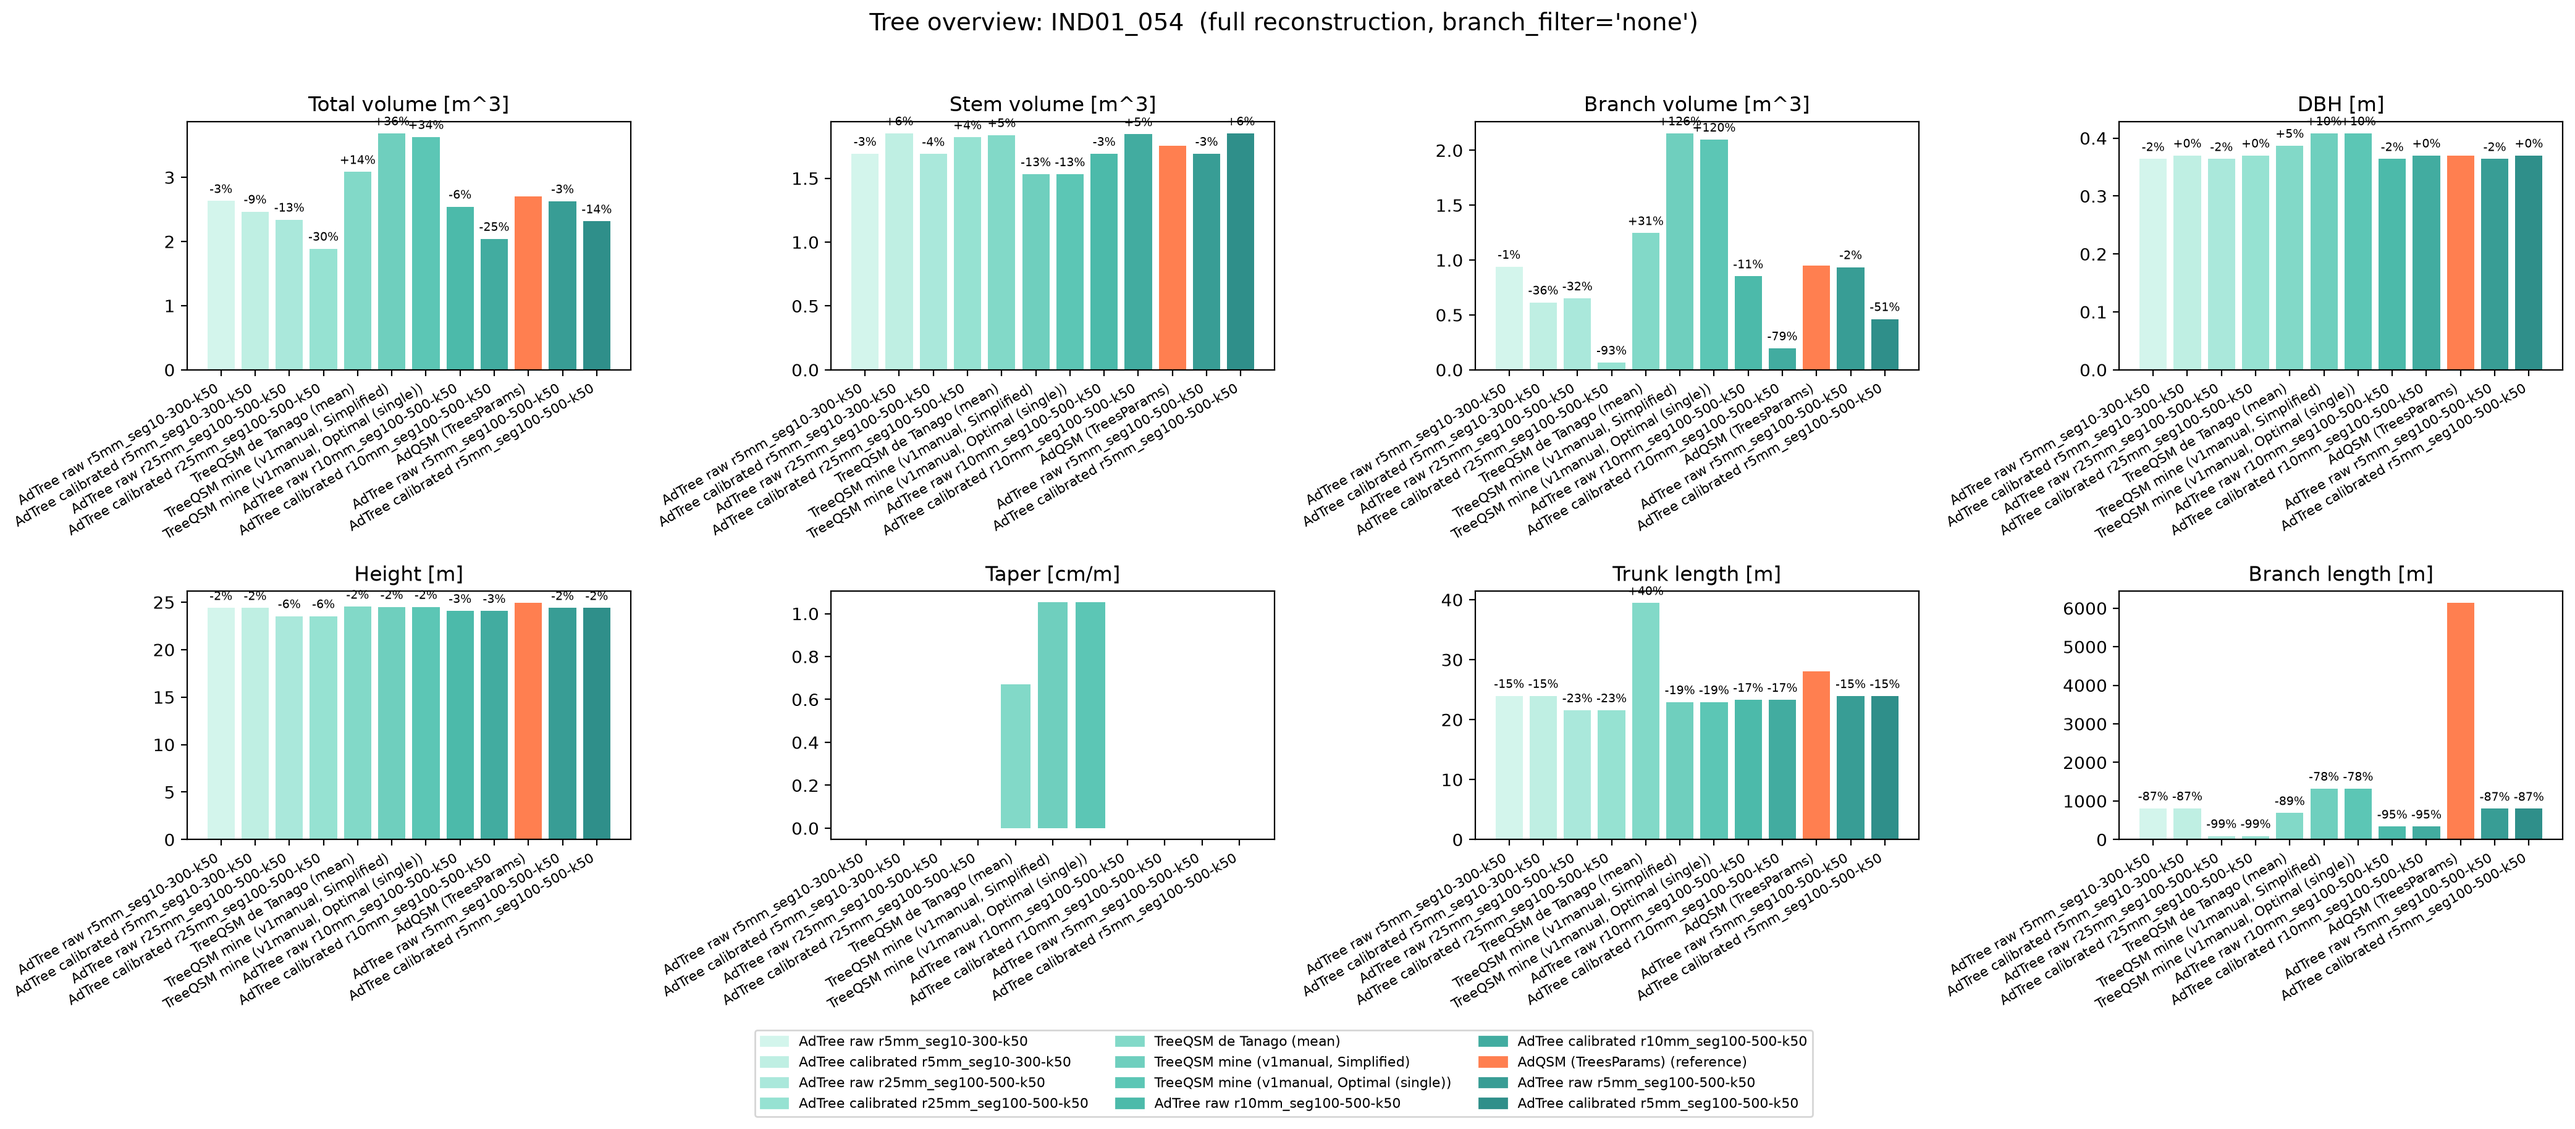
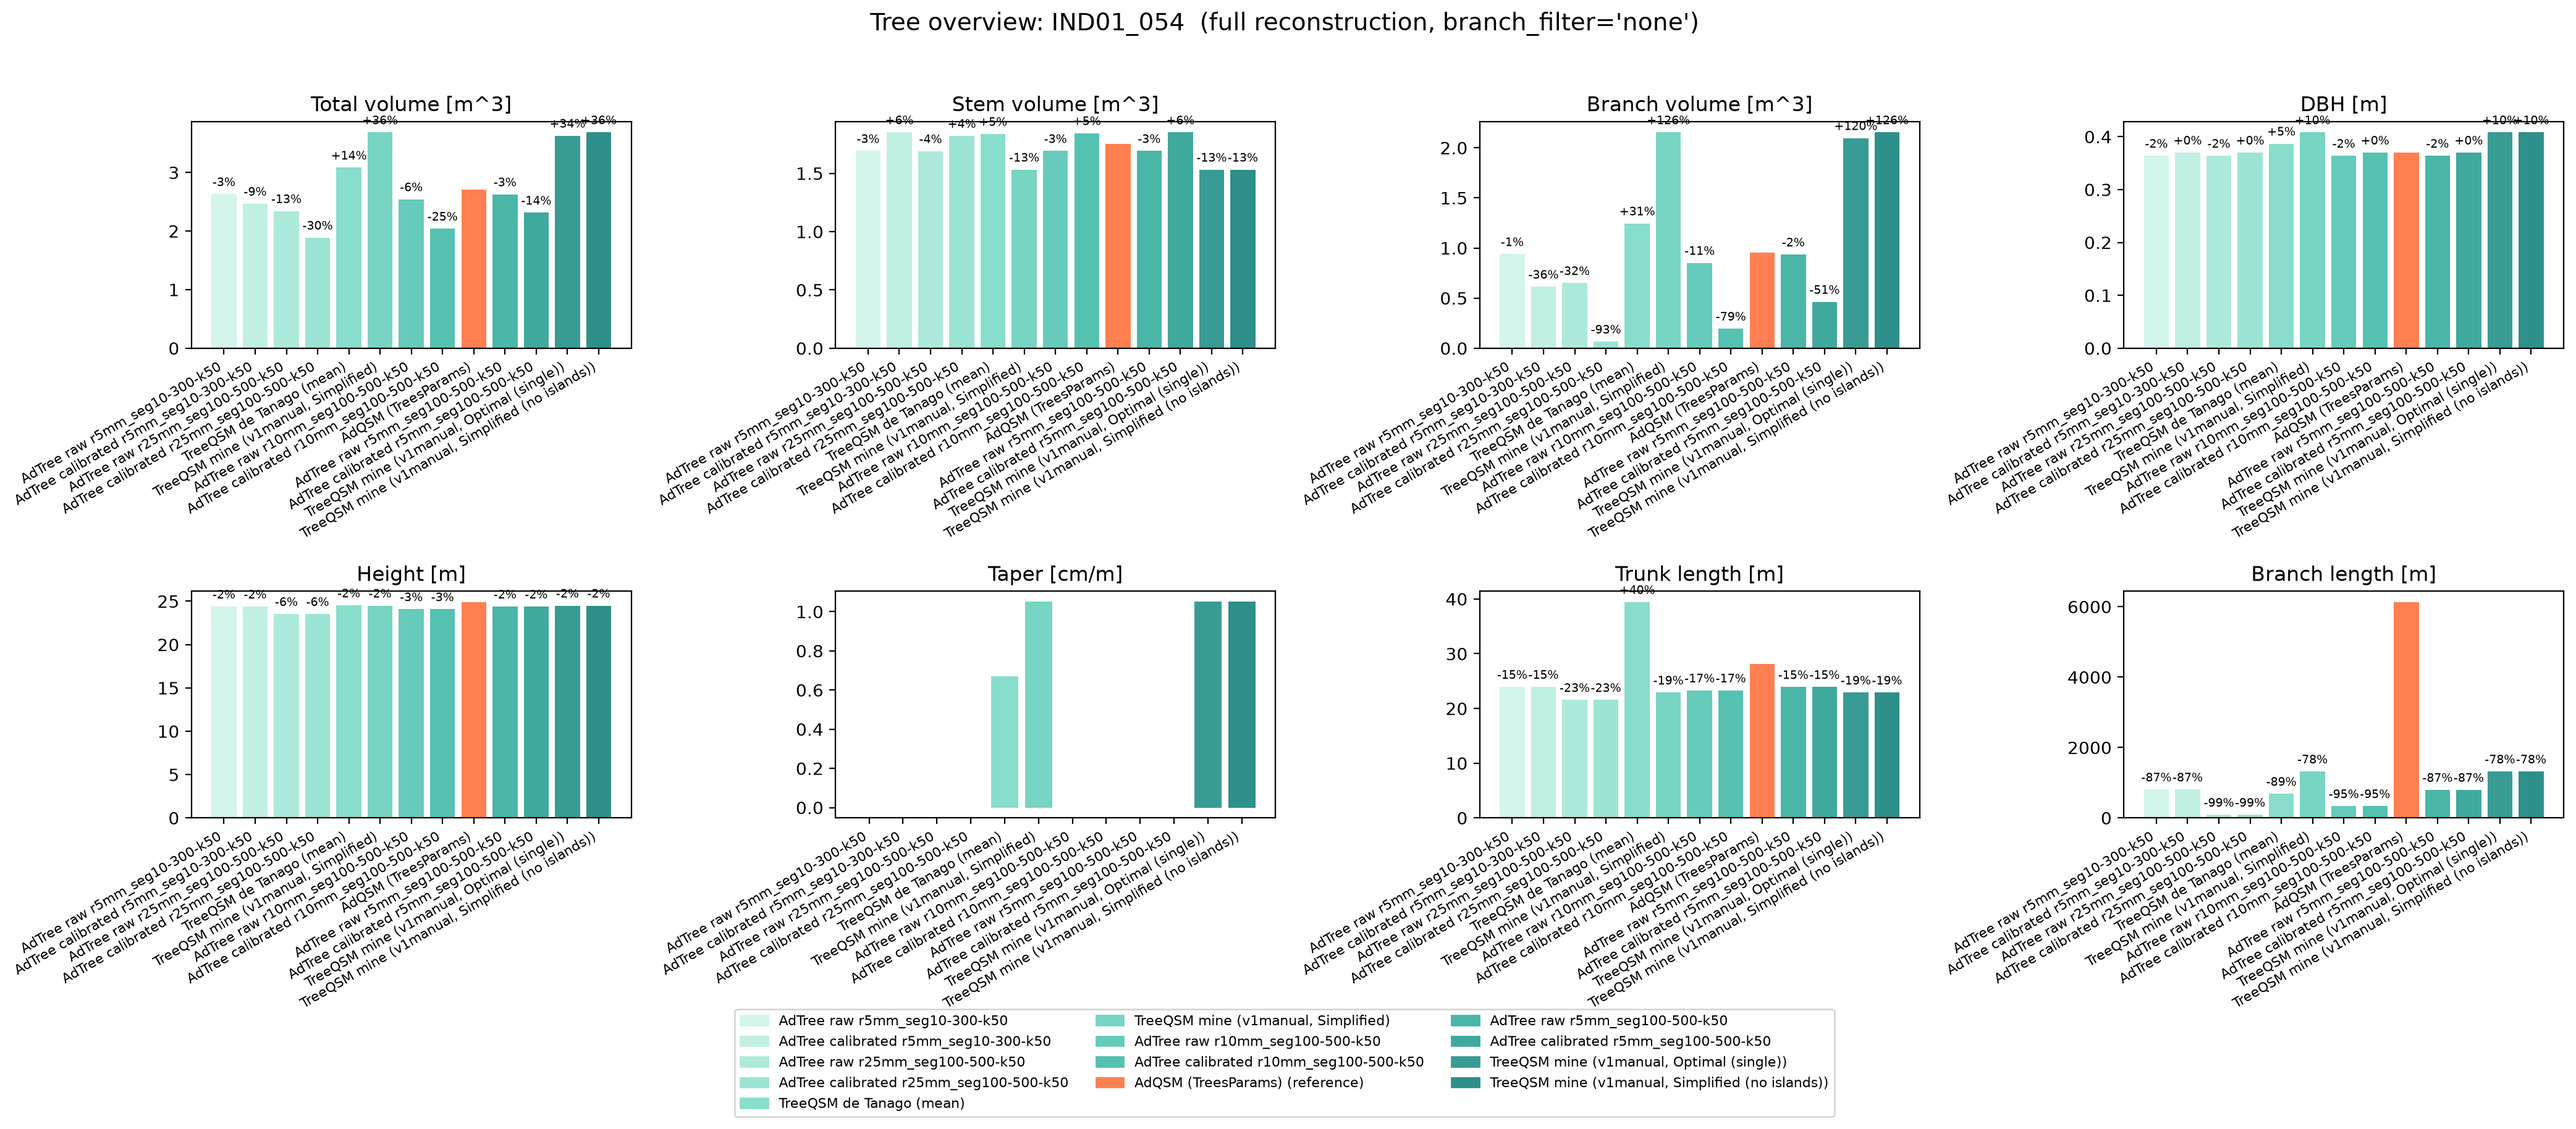
remove branches with no parents _function island groups

diff --git a/scripts/matlab/runsken.m b/scripts/matlab/runsken.m
@@ -484,6 +484,17 @@ else
     fprintf('Source model: res.QSMs(%d).\n', model_index);
 end
 
+% QSM_opt is kept EXACTLY as produced by select_optimum/estimate_precision,
+% with no island cleaning applied - it is only a raw, unfiltered REFERENCE
+% value used later (section 17, 'Optimal'/'Optimal (single)' rows) so you
+% can compare against the model you actually work with. The model you
+% actually use going forward (islands detected/removed, ANSYS export,
+% etc.) is always QSM_simple, built below and cleaned in sections
+% 15b/15c further down (moved there so island cleaning runs on the
+% SIMPLIFIED model, which is what matters for the real workflow).
+QSM_simple = simplify_qsm(QSM_opt, simp_MaxOrder, ...
+    simp_SmallRadii, simp_ReplaceIterations, simp_Plot, simp_Disp);
+
 %% ------------------------------------------------------------
 %  15b) DETECT DISCONNECTED BRANCH ISLANDS - REVIEW BEFORE REMOVING
 % This section only DETECTS and PLOTS potential disconnected branch
@@ -492,6 +503,12 @@ end
 % drawn in red on top of the tree in gray. Only run the NEXT section
 % (15c) if you decide, after reviewing the plot, that these really
 % are broken/noise fragments that should be removed.
+% MOVED here (after simplify_qsm) and now reads from QSM_simple(end)
+% instead of QSM_opt: the user's actual working model is the simplified
+% one (fewer cylinders, used for ANSYS), so island cleaning should run on
+% THAT model, not on the raw pre-simplification one. QSM_simple(end) is
+% the same "the simplified model" choice already used elsewhere in this
+% script (e.g. V_simp = vols(QSM_simple(end)) in section 17 below).
 %  ------------------------------------------------------------
 
 % cylinder.parent(k) is the row index (into the SAME cylinder table) of
@@ -503,10 +520,10 @@ end
 % disconnected from the main structure. These usually come from noisy or
 % incomplete point-cloud data and typically represent little volume, but
 % should be reviewed visually (not blindly deleted) before removal.
-parent_arr = QSM_opt.cylinder.parent;
-radius_arr = QSM_opt.cylinder.radius;
-length_arr = QSM_opt.cylinder.length;
-start_arr  = QSM_opt.cylinder.start;      % (n_cyl,3) xyz of each cylinder's base
+parent_arr = QSM_simple(end).cylinder.parent;
+radius_arr = QSM_simple(end).cylinder.radius;
+length_arr = QSM_simple(end).cylinder.length;
+start_arr  = QSM_simple(end).cylinder.start;   % (n_cyl,3) xyz of each cylinder's base
 total_tree_volume = sum(pi .* radius_arr.^2 .* length_arr);
 
 % find_disconnected_islands() is the local function defined at the very
@@ -534,6 +551,18 @@ for oi = 1:numel(island_groups)
     all_island_indices = [all_island_indices, island_idx];
 end
 
+% Report the TOTAL volume across all islands combined (not just per
+% island above), so you can see at a glance how much volume removing
+% every island would cost - guarded with isempty() so sum() over an
+% empty all_island_indices (zero islands found) does not run/print at all.
+if ~isempty(island_groups)
+    total_island_vol = sum(pi .* radius_arr(all_island_indices).^2 .* ...
+        length_arr(all_island_indices));
+    total_island_pct = total_island_vol / total_tree_volume * 100;
+    fprintf('Total island volume: %.5f m3 (%.2f %% of tree)\n', ...
+        total_island_vol, total_island_pct);
+end
+
 if isempty(island_groups)
     fprintf('No disconnected islands found.\n');
 else
@@ -556,14 +585,16 @@ end
 
 %% ------------------------------------------------------------
 %  15c) REMOVE DISCONNECTED ISLANDS (run manually, only after reviewing the plot above)
-% Creates QSM_opt_clean - a COPY of QSM_opt with the island cylinders
-% removed and every remaining cylinder's "parent" index remapped to
-% the new (shifted) row numbers. QSM_opt itself is left untouched, so
-% re-running earlier sections is unaffected.
+% Creates QSM_simple_clean - a COPY of QSM_simple(end) with the island
+% cylinders removed and every remaining cylinder's "parent" index
+% remapped to the new (shifted) row numbers. QSM_simple itself is left
+% untouched, so re-running earlier sections is unaffected. Renamed from
+% the former QSM_opt_clean, since this now cleans the SIMPLIFIED model,
+% not the raw optimal one.
 %  ------------------------------------------------------------
 
 if isempty(island_groups)
-    fprintf('No islands to remove - QSM_opt_clean not created.\n');
+    fprintf('No islands to remove - QSM_simple_clean not created.\n');
 else
     n_cyl_total = numel(parent_arr);
     keep_mask = true(n_cyl_total, 1);
@@ -577,29 +608,29 @@ else
     old_to_new = zeros(n_cyl_total, 1);
     old_to_new(keep_mask) = 1:sum(keep_mask);
 
-    QSM_opt_clean = QSM_opt;
-    cyl_fields = fieldnames(QSM_opt_clean.cylinder);
+    QSM_simple_clean = QSM_simple(end);   % start from the simplified model, not QSM_opt
+    cyl_fields = fieldnames(QSM_simple_clean.cylinder);
     for f = 1:numel(cyl_fields)
         field_name = cyl_fields{f};
-        field_val = QSM_opt_clean.cylinder.(field_name);
+        field_val = QSM_simple_clean.cylinder.(field_name);
         % Only touch fields that have one ROW per cylinder (size along
         % dim 1 equal to n_cyl_total) - e.g. radius/length/parent/start.
         % Anything else (a scalar setting, etc.) is left untouched.
         if size(field_val, 1) == n_cyl_total
-            QSM_opt_clean.cylinder.(field_name) = field_val(keep_mask, :);
+            QSM_simple_clean.cylinder.(field_name) = field_val(keep_mask, :);
         end
     end
 
     % Remap parent indices: any parent > 0 (i.e. not itself a root) must
     % now point at the NEW row number of that same parent cylinder.
-    new_parent = QSM_opt_clean.cylinder.parent;
+    new_parent = QSM_simple_clean.cylinder.parent;
     nonzero = new_parent > 0;
     new_parent(nonzero) = old_to_new(new_parent(nonzero));
-    QSM_opt_clean.cylinder.parent = new_parent;
+    QSM_simple_clean.cylinder.parent = new_parent;
 
-    r_c = QSM_opt_clean.cylinder.radius;
-    L_c = QSM_opt_clean.cylinder.length;
-    order_c = QSM_opt_clean.cylinder.BranchOrder;
+    r_c = QSM_simple_clean.cylinder.radius;
+    L_c = QSM_simple_clean.cylinder.length;
+    order_c = QSM_simple_clean.cylinder.BranchOrder;
     V_cyl_c = pi .* r_c.^2 .* L_c;
 
     total_vol_clean  = sum(V_cyl_c);
@@ -607,21 +638,21 @@ else
     branch_vol_clean = sum(V_cyl_c(order_c >= 1));
     V_rep_clean = [total_vol_clean, stem_vol_clean, branch_vol_clean];
 
-    fprintf('QSM_opt_clean created: %d cylinders (was %d), removed %.5f m3 (%.2f %%).\n', ...
+    fprintf('QSM_simple_clean created: %d cylinders (was %d), removed %.5f m3 (%.2f %%).\n', ...
         sum(keep_mask), n_cyl_total, total_tree_volume - total_vol_clean, ...
         (total_tree_volume - total_vol_clean)/total_tree_volume*100);
 end
 
-QSM_simple = simplify_qsm(QSM_opt, simp_MaxOrder, ...
-    simp_SmallRadii, simp_ReplaceIterations, simp_Plot, simp_Disp);
-
 %% ------------------------------------------------------------
 %  17) VOLUME TABLE with variability, in m^3
-%       All inputs       = all models of the first run
-%       Optimal          = models of the winning parameter combination
-%       Optimal (single) = the one model that gets simplified
-%       Estimated        = optimal models + second run (better std)
-%       Simplified       = the simplified model (single -> no std)
+%       All inputs              = all models of the first run
+%       Optimal                 = models of the winning parameter combination
+%       Optimal (single)        = the one model that gets simplified
+%       Estimated               = optimal models + second run (better std)
+%       Simplified              = the simplified model (single -> no std)
+%       Simplified (no islands) = Simplified, with disconnected branch
+%                                  islands removed (section 15c) - only
+%                                  present if islands were found
 %       TreeQSM stores volumes in LITERS -> divide by 1000
 %  ------------------------------------------------------------
 
@@ -723,17 +754,20 @@ else
     warning('res_new not found - run steps 13 and 14 to get the Estimated row.');
 end
 
+% Keep 'Simplified' (uncleaned QSM_simple) as-is for side-by-side
+% comparison against the cleaned version added right below.
 groups(end+1,:) = {'Simplified', V_simp};
 
-% QSM_opt_clean/V_rep_clean only exist if section 15c was run manually
-% (it is NOT run automatically - see its comment above). This adds a
-% SEPARATE new row ('Optimal (single, no islands)') without touching or
-% replacing the existing 'Optimal (single)' row above, so both are kept
-% side by side in VolumeTable/volumes_*.csv for comparison in Python.
-if exist('QSM_opt_clean', 'var')
-    groups(end+1,:) = {'Optimal (single, no islands)', V_rep_clean};
+% QSM_simple_clean only exists if section 15c actually removed islands
+% (it is NOT run/created when island_groups was empty - see its comment
+% above). This adds a SEPARATE new row ('Simplified (no islands)')
+% without touching or replacing the existing 'Simplified' row above, so
+% both are kept side by side in VolumeTable/volumes_*.csv for comparison.
+if exist('QSM_simple_clean', 'var')
+    V_simp_clean = vols(QSM_simple_clean(end));   % same vols() helper used for V_simp above
+    groups(end+1,:) = {'Simplified (no islands)', V_simp_clean};
 else
-    fprintf('QSM_opt_clean not found - skipping "Optimal (single, no islands)" group (section 15c was not run).\n');
+    fprintf('QSM_simple_clean not found - skipping "Simplified (no islands)" group (no islands detected, or section not run).\n');
 end
 
 % Only add the "Filtered <10cm" group when export_filtered_10cm is true
@@ -925,18 +959,41 @@ time_sum(1,2) = time_sum./60;         % total time in hours
 %  20) EXPORT geometry for ANSYS
 %  ------------------------------------------------------------
 % --- choose the SOURCE model ------------------------------------
-% 'simplified' = QSM_simple (after simplify_qsm, section 16)
-% 'optimal'    = QSM_opt    (before simplification, section 16, output of select_optimum)
-ansys_source = 'simplified';   % <-- change to 'simplified' when you want the simplified export
+% 'simplified_clean' = QSM_simple_clean (simplified model, island cylinders
+%                       removed - section 15c). This is now the PRIMARY
+%                       model the user exports to ANSYS: it is both the
+%                       fewer-cylinder simplified geometry AND has any
+%                       disconnected branch-island noise stripped out.
+% 'simplified'        = QSM_simple (after simplify_qsm, section 16, BEFORE
+%                        island cleaning) - kept for occasional comparison
+%                        exports only.
+% 'optimal'           = QSM_opt (before simplification, section 16, output
+%                        of select_optimum) - kept for occasional
+%                        comparison exports only.
+ansys_source = 'simplified_clean';   % <-- default: simplified + islands removed
 
 switch ansys_source
+    case 'simplified_clean'
+        % QSM_simple_clean only exists if section 15c actually ran AND
+        % found islands to remove (see its comment above). If it wasn't
+        % created, error out with a clear pointer to 'simplified' instead
+        % of silently exporting the wrong thing - in the no-islands case
+        % QSM_simple and QSM_simple_clean would be identical anyway, so
+        % nothing is lost by switching ansys_source manually.
+        if ~exist('QSM_simple_clean', 'var')
+            error(['ansys_source = ''simplified_clean'', but QSM_simple_clean does not exist ' ...
+                   '(no islands were found in section 15b/15c, so there was nothing to clean). ' ...
+                   'Set ansys_source = ''simplified'' instead - QSM_simple and QSM_simple_clean ' ...
+                   'would be identical anyway when no islands exist.']);
+        end
+        qsm_selected = QSM_simple_clean(1);   % single cleaned model (not an array)
     case 'simplified'
         ansys_export_idx = 1;                 % index into QSM_simple
         qsm_selected = QSM_simple(ansys_export_idx);
     case 'optimal'
         qsm_selected = QSM_opt;               % QSM_opt is a single model (not an array)
     otherwise
-        error('ansys_source must be ''simplified'' or ''optimal''.');
+        error('ansys_source must be ''simplified_clean'', ''simplified'' or ''optimal''.');
 end
 
 n_opt = length(qsm_selected);
@@ -952,19 +1009,15 @@ for i = 1:n_opt
     fprintf('Exported: %s\n', file_name);
 end
 
-%% ------------------------------------------------------------
-%  20) EXPORT geometry for ANSYS
-%  ------------------------------------------------------------
-qsm_selected = QSM_simple;
-n_opt     = length('QSM_simple');
-geom_orig = myfun.result_ansys(QSM_simple, n_opt);
-
-for i = 1:n_opt
-    geom_table = geom_orig{i};                            % table of one model
-    file_name  = sprintf('%s%d.txt', export_prefix, i);   % e.g. geom_IND07_v3_1.txt
-    writematrix(geom_table, file_name, 'Delimiter', '\t');
-    fprintf('Exported: %s\n', file_name);
-end
+% REMOVED: a duplicate, leftover second "20) EXPORT geometry for ANSYS"
+% block used to sit here. It always re-exported QSM_simple (ignoring
+% whatever ansys_source above had chosen, e.g. 'optimal') using
+% n_opt = length('QSM_simple') - a bug, since that computes the length of
+% the literal 10-character STRING 'QSM_simple', not length(QSM_simple)
+% (the number of models). Because it wrote to the exact same file_name
+% pattern as the block above, it silently ran a second time and could
+% overwrite the export the user actually intended. Deleted as dead code -
+% the switch above already covers every case correctly on its own.
 
 % ---------------------------------------------------------------
 % LOCAL FUNCTIONS

diff --git a/scripts/python/import_matlab_results.py b/scripts/python/import_matlab_results.py
@@ -34,8 +34,8 @@ FILE_PATTERN = "volumes_*.csv"
 
 # Which Group to import from each table. "Estimated" uses the optimal
 # models plus the second run, so it has the most reliable mean and std.
-# Other valid choices: "Optimal", "All inputs", "Optimal (single)", "Simplified", "Filtered <10cm".
-IMPORT_GROUP = "Optimal (single)"  # the de Tanago field crew physically only measured sections down to a 10 cm taper diameter (see AdQSM.pdf Appendix A) - this reference NEVER has a "none" (full/unfiltered) version, by methodology.
+# Other valid choices: "Optimal", "All inputs", "Optimal (single)", "Simplified", "Filtered <10cm", "Simplified (no islands)".
+IMPORT_GROUP = "Simplified (no islands)"  # the de Tanago field crew physically only measured sections down to a 10 cm taper diameter (see AdQSM.pdf Appendix A) - this reference NEVER has a "none" (full/unfiltered) version, by methodology.
 
 # Shared master results table (read by compare_volumes.py).
 RESULTS_CSV = "volume_results.csv"
